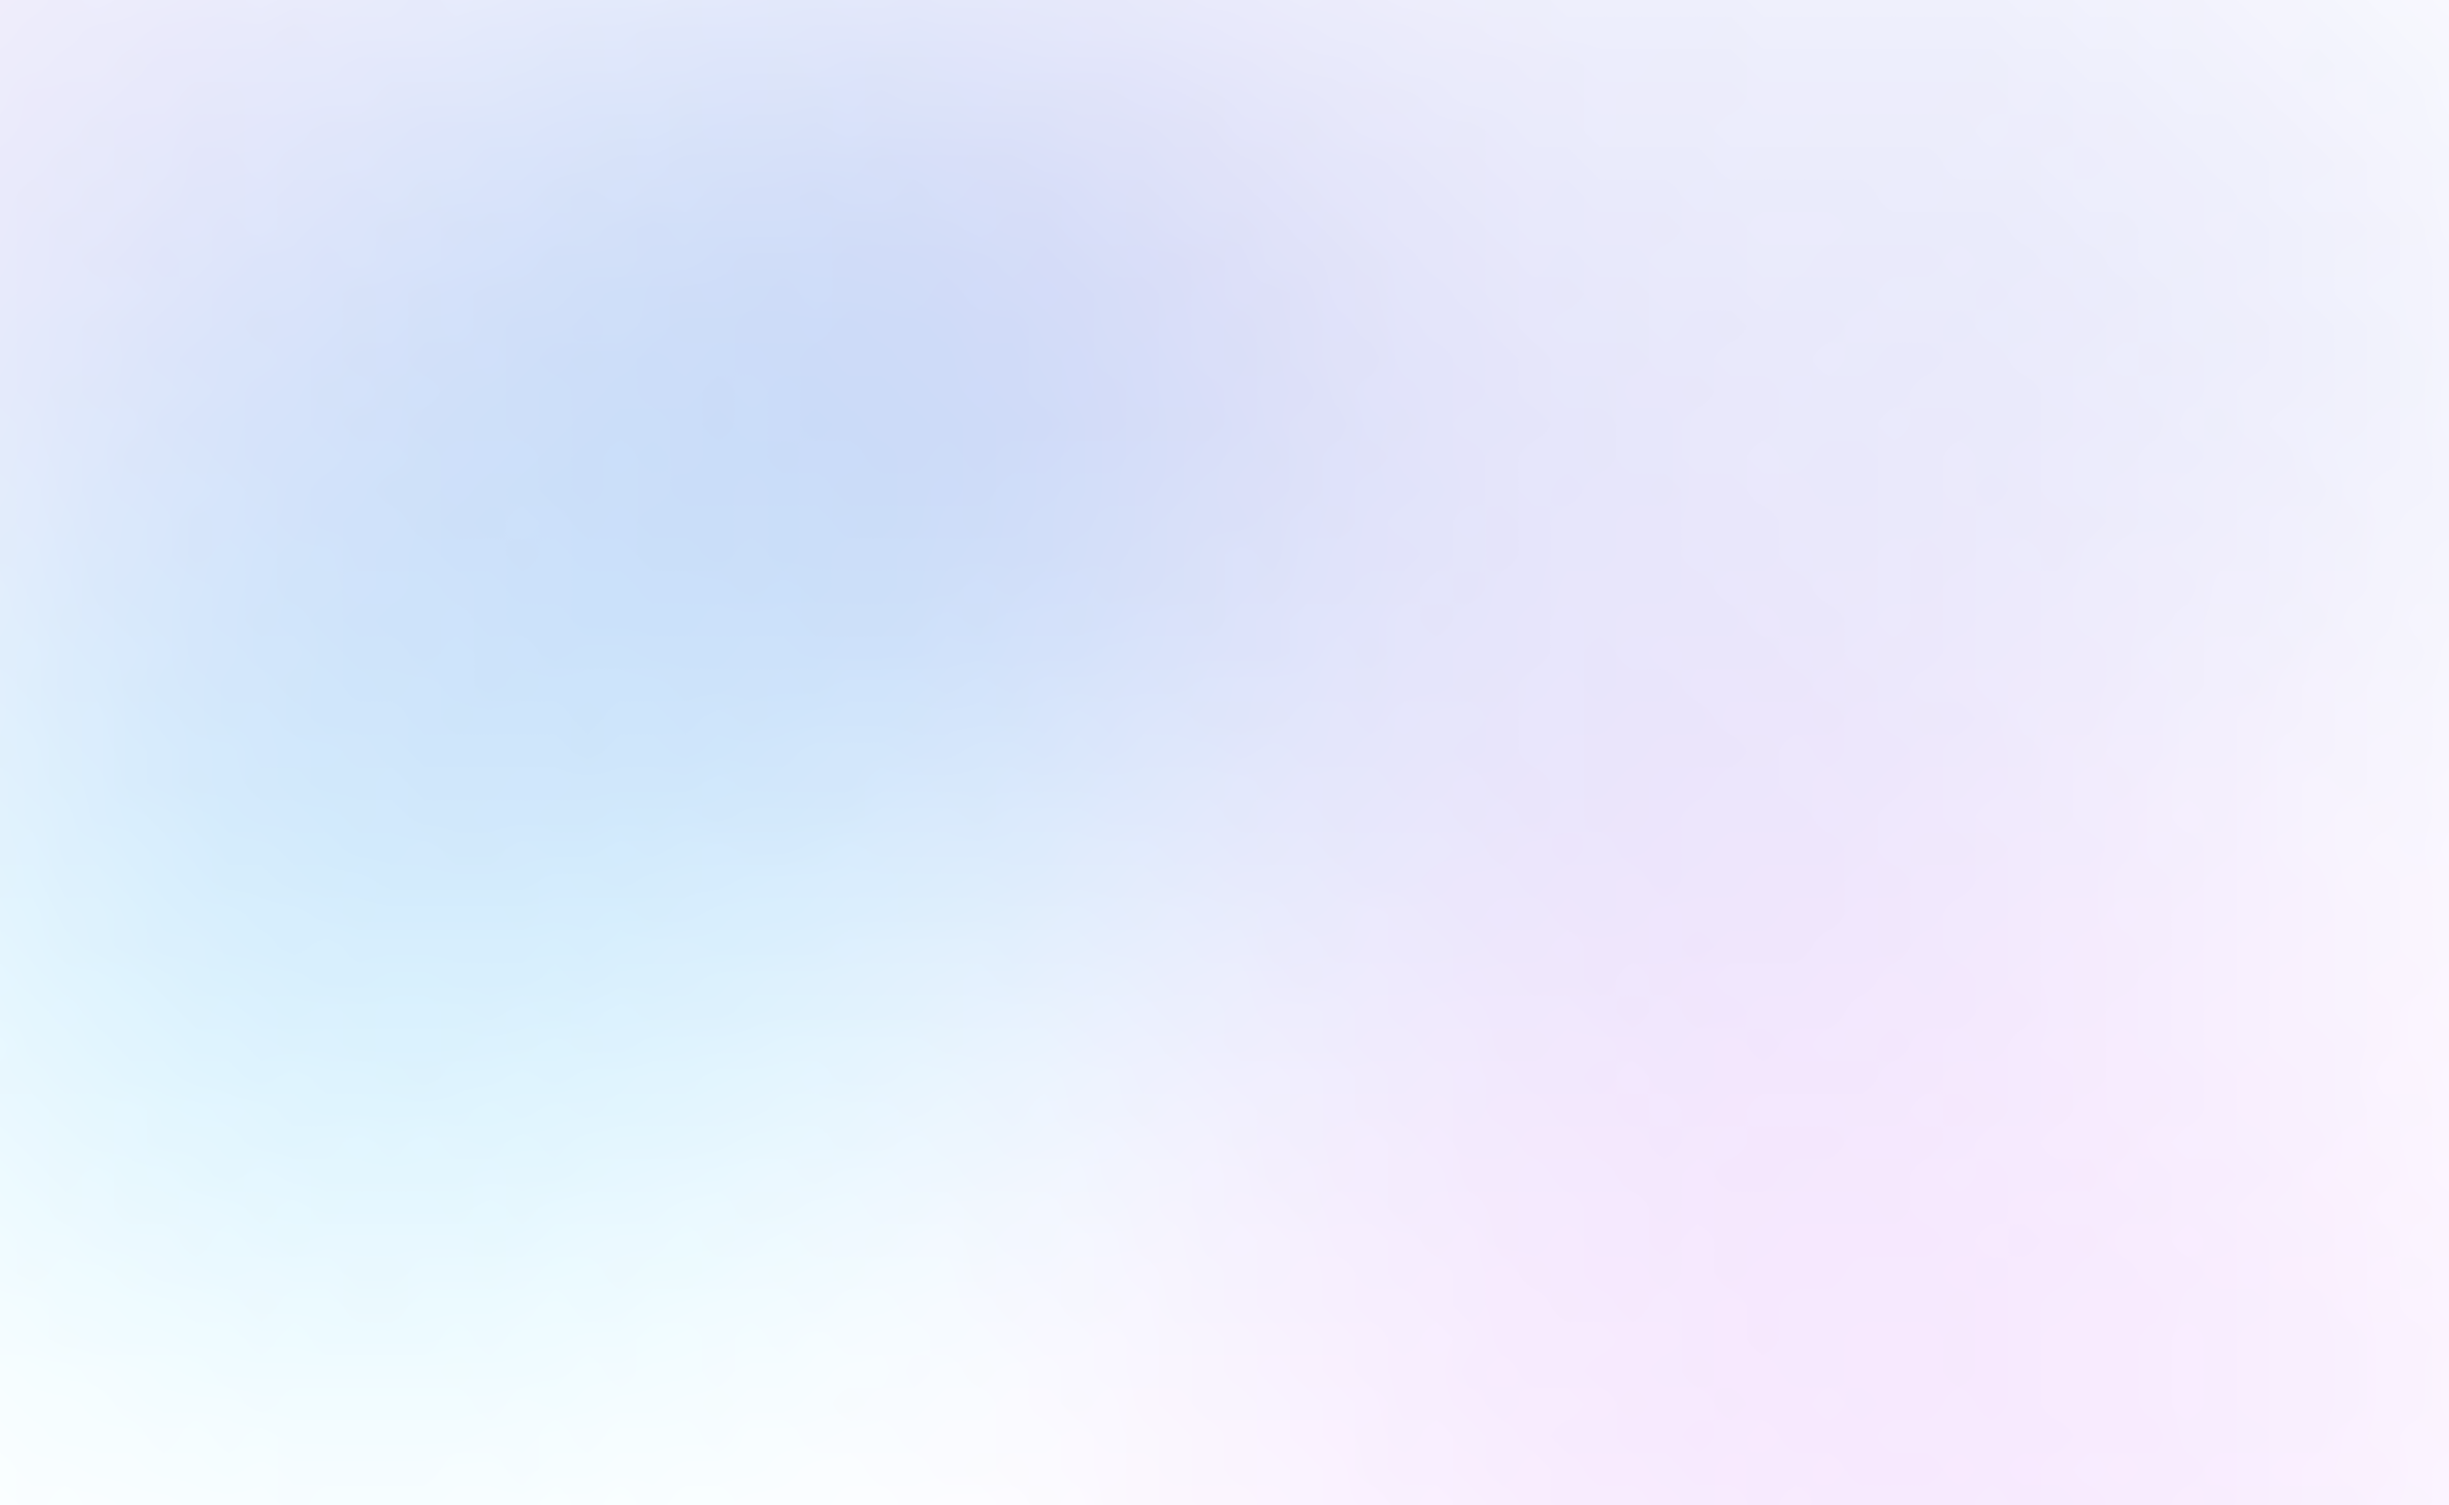
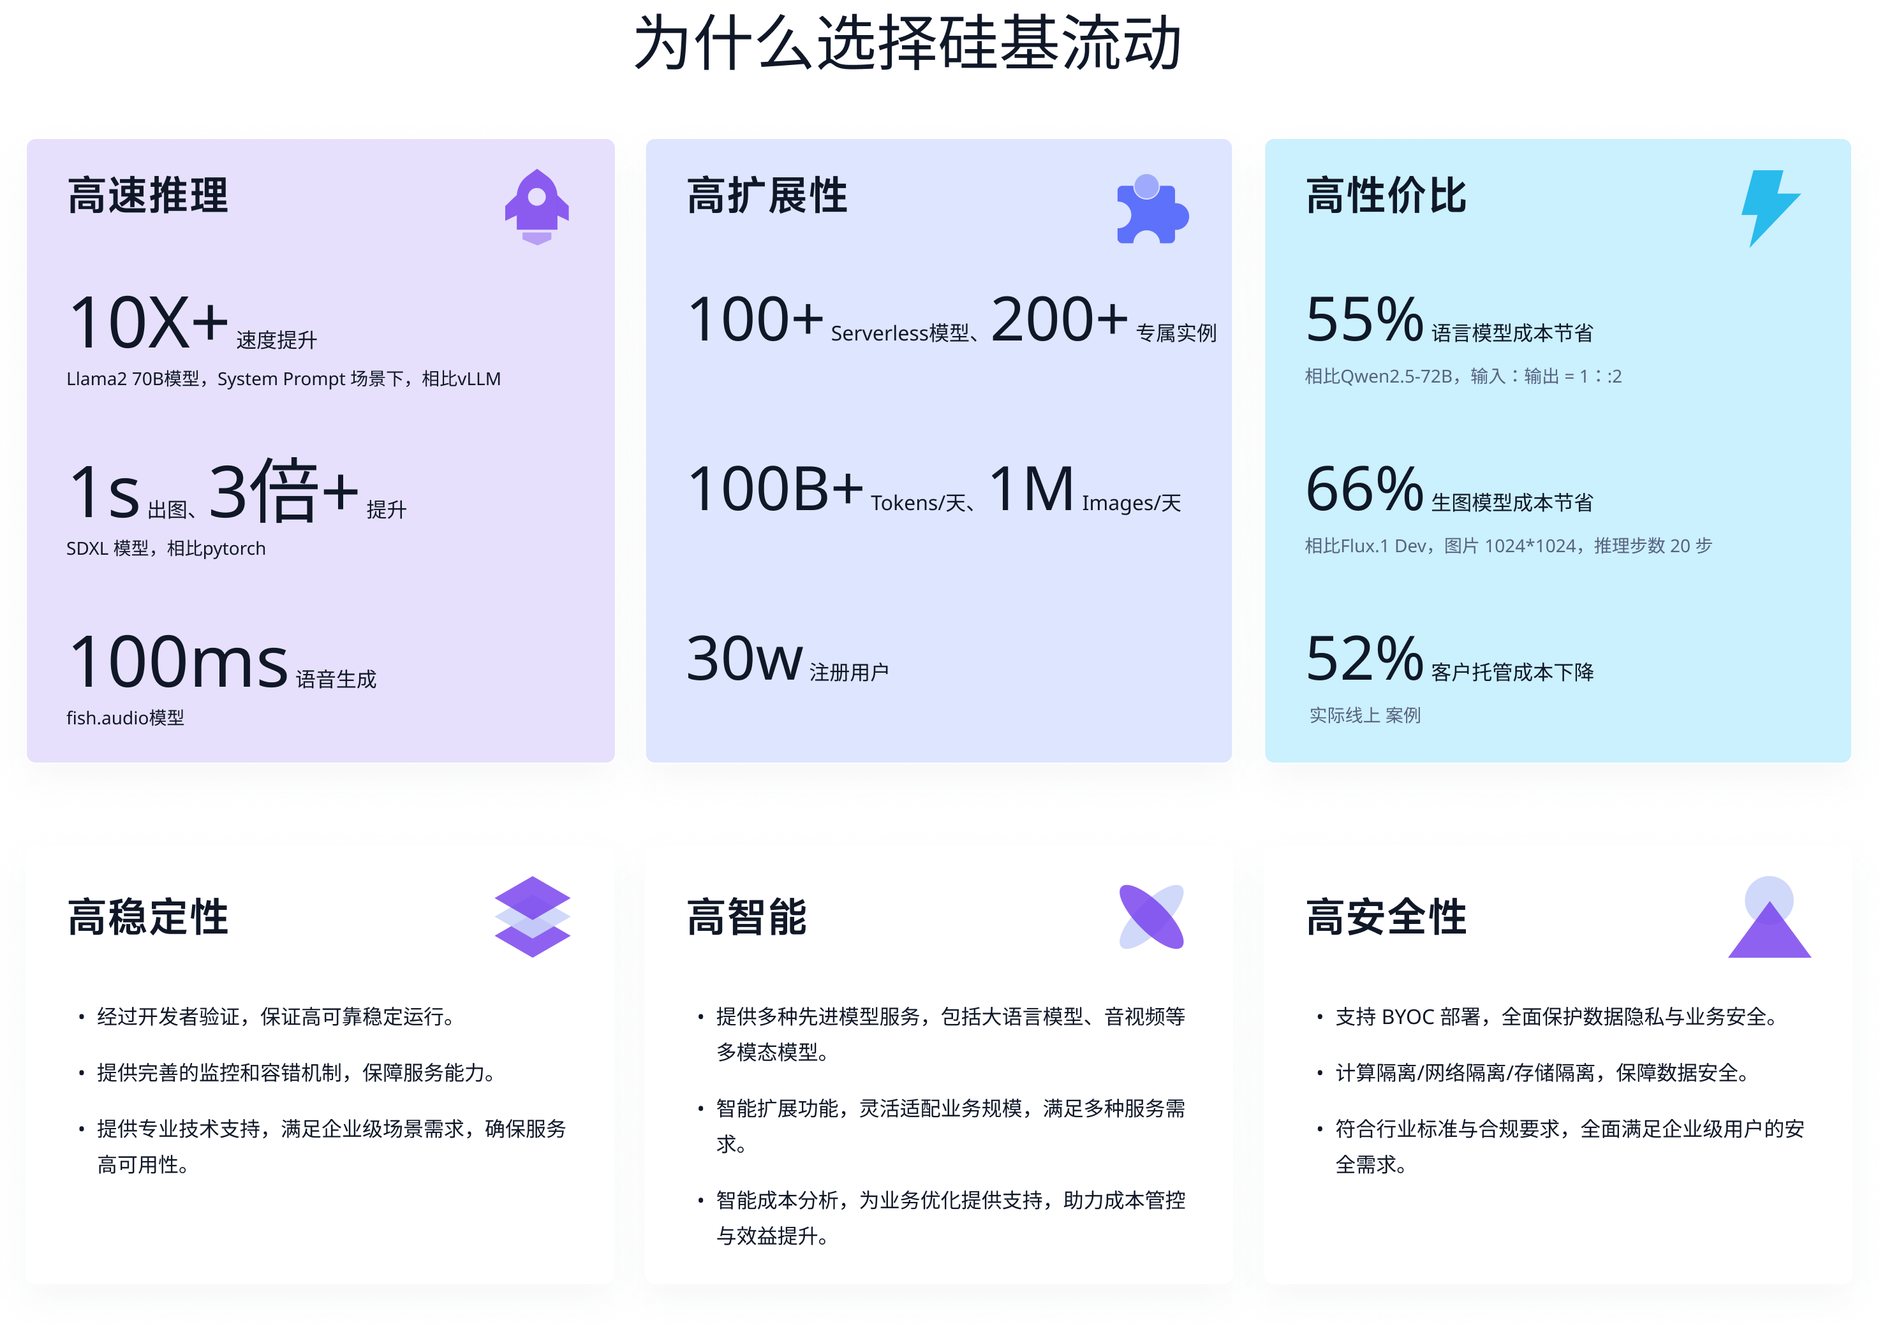
添加新的前端

diff --git a/前端/index.html b/前端/index.html
@@ -6,98 +6,13 @@
     <title>硅基流动 - 特色优势</title>
     <script src="https://cdn.tailwindcss.com"></script>
 </head>
+
 <body class="bg-gradient-to-b from-blue-100 to-white p-10">
 
     <div class="max-w-5xl mx-auto text-center">
-        <h2 class="text-3xl font-bold text-gray-800 mb-8">为什么选择硅基流动</h2>
-        
-        <!-- 卡片容器 -->
         <div class="grid grid-cols-1 md:grid-cols-3 gap-6">
-            
-            <!-- 高速推理 -->
-            <div class="bg-purple-100 p-6 rounded-2xl shadow-lg border border-purple-200">
-                <div class="flex justify-between items-center">
-                    <h3 class="text-xl font-bold text-gray-800">高速推理</h3>
-                    <img src="a1.png"  class="w-12 h-12 object-cover rounded-full">
-                </div>
-                <p class="text-3xl font-bold text-gray-900 mt-2">10X+</p>
-                <p class="text-gray-600 text-sm">速度提升</p>
-                <p class="text-lg font-bold text-gray-900 mt-4">1S 出图，3倍+ 提升</p>
-                <p class="text-gray-600 text-sm">SDXL 模型，相比 pytorch</p>
-                <p class="text-lg font-bold text-gray-900 mt-4">100ms</p>
-                <p class="text-gray-600 text-sm">语音生成</p>
-            </div>
-
-            <!-- 高扩展性 -->
-            <div class="bg-blue-100 p-6 rounded-2xl shadow-lg border border-blue-200">
-                <div class="flex justify-between items-center">
-                    <h3 class="text-xl font-bold text-gray-800">高扩展性</h3>
-                    <img src="a2.png"  class="w-12 h-12 object-cover rounded-full">
-                    
-                </div>
-                <p class="text-3xl font-bold text-gray-900 mt-2">100+</p>
-                <p class="text-gray-600 text-sm">Serverless 规模</p>
-                <p class="text-lg font-bold text-gray-900 mt-4">100B+ Tokens/天</p>
-                <p class="text-gray-600 text-sm">1M Images/天</p>
-                <p class="text-lg font-bold text-gray-900 mt-4">30W</p>
-                <p class="text-gray-600 text-sm">注册用户</p>
-            </div>
-
-            <!-- 高性价比 -->
-            <div class="bg-blue-200 p-6 rounded-2xl shadow-lg border border-blue-300">
-                <div class="flex justify-between items-center">
-                    <h3 class="text-xl font-bold text-gray-800">高性价比</h3>
-                    <img src="a3.png"  class="w-12 h-12 object-cover rounded-full">
-                    
-                </div>
-                <p class="text-3xl font-bold text-gray-900 mt-2">55%</p>
-                <p class="text-gray-600 text-sm">语音模型成本节省</p>
-                <p class="text-lg font-bold text-gray-900 mt-4">66%</p>
-                <p class="text-gray-600 text-sm">在图像模型成本节省</p>
-                <p class="text-lg font-bold text-gray-900 mt-4">52%</p>
-                <p class="text-gray-600 text-sm">客户托管成本下降</p>
-            </div>
-
+            <img src="image copy 3.png"  class="col-span-3 w-full h-auto object-cover">
         </div>
-
-        <!-- 高稳定性 高智能 高安全性 -->
-        <div class="grid grid-cols-1 md:grid-cols-3 gap-6 mt-12">
-            
-            <!-- 高稳定性 -->
-            <div class="bg-purple-100 p-6 rounded-2xl shadow-lg border border-purple-200">
-                <div class="flex justify-between items-center">
-                    <h3 class="text-xl font-bold text-gray-800">高稳定性</h3>
-                    <img src="a4.png"  class="w-8 h-8 object-cover rounded-full">
-                </div>
-                <p class="text-sm text-gray-600 mt-4">经过开放测试，系统稳定可靠运行。</p>
-                <p class="text-sm text-gray-600">提供完善的灾备机制，确保服务能力。</p>
-                <p class="text-sm text-gray-600">获得专业技术支持，满足企业级应用需求。</p>
-            </div>
-
-            <!-- 高智能 -->
-            <div class="bg-blue-100 p-6 rounded-2xl shadow-lg border border-blue-200">
-                <div class="flex justify-between items-center">
-                    <h3 class="text-xl font-bold text-gray-800">高智能</h3>
-                    <img src="a5.png"  class="w-8 h-8 object-cover rounded-full">
-                </div>
-                <p class="text-sm text-gray-600 mt-4">提供多种智能模型，包含大规模推理模型。</p>
-                <p class="text-sm text-gray-600">智能化的安全系统，实时监控和检测。</p>
-                <p class="text-sm text-gray-600">智能决策支持，为企业提供更高效的操作。</p>
-            </div>
-
-            <!-- 高安全性 -->
-            <div class="bg-blue-200 p-6 rounded-2xl shadow-lg border border-blue-300">
-                <div class="flex justify-between items-center">
-                    <h3 class="text-xl font-bold text-gray-800">高安全性</h3>
-                    <img src="a6.png"  class="w-8 h-8 object-cover rounded-full">
-                </div>
-                <p class="text-sm text-gray-600 mt-4">支持 BYOC 功能，确保数据安全。</p>
-                <p class="text-sm text-gray-600">管理您的服务环境，保障网络安全。</p>
-                <p class="text-sm text-gray-600">符合行业标准，为企业提供最安心的保护。</p>
-            </div>
-
-        </div>
-
         <section class="mt-12">
             <h2 class="text-3xl font-bold text-gray-800 text-center mb-8">面向不同行业及需求场景，提供灵活的解决方案</h2>
             <div class="grid grid-cols-1 ">
